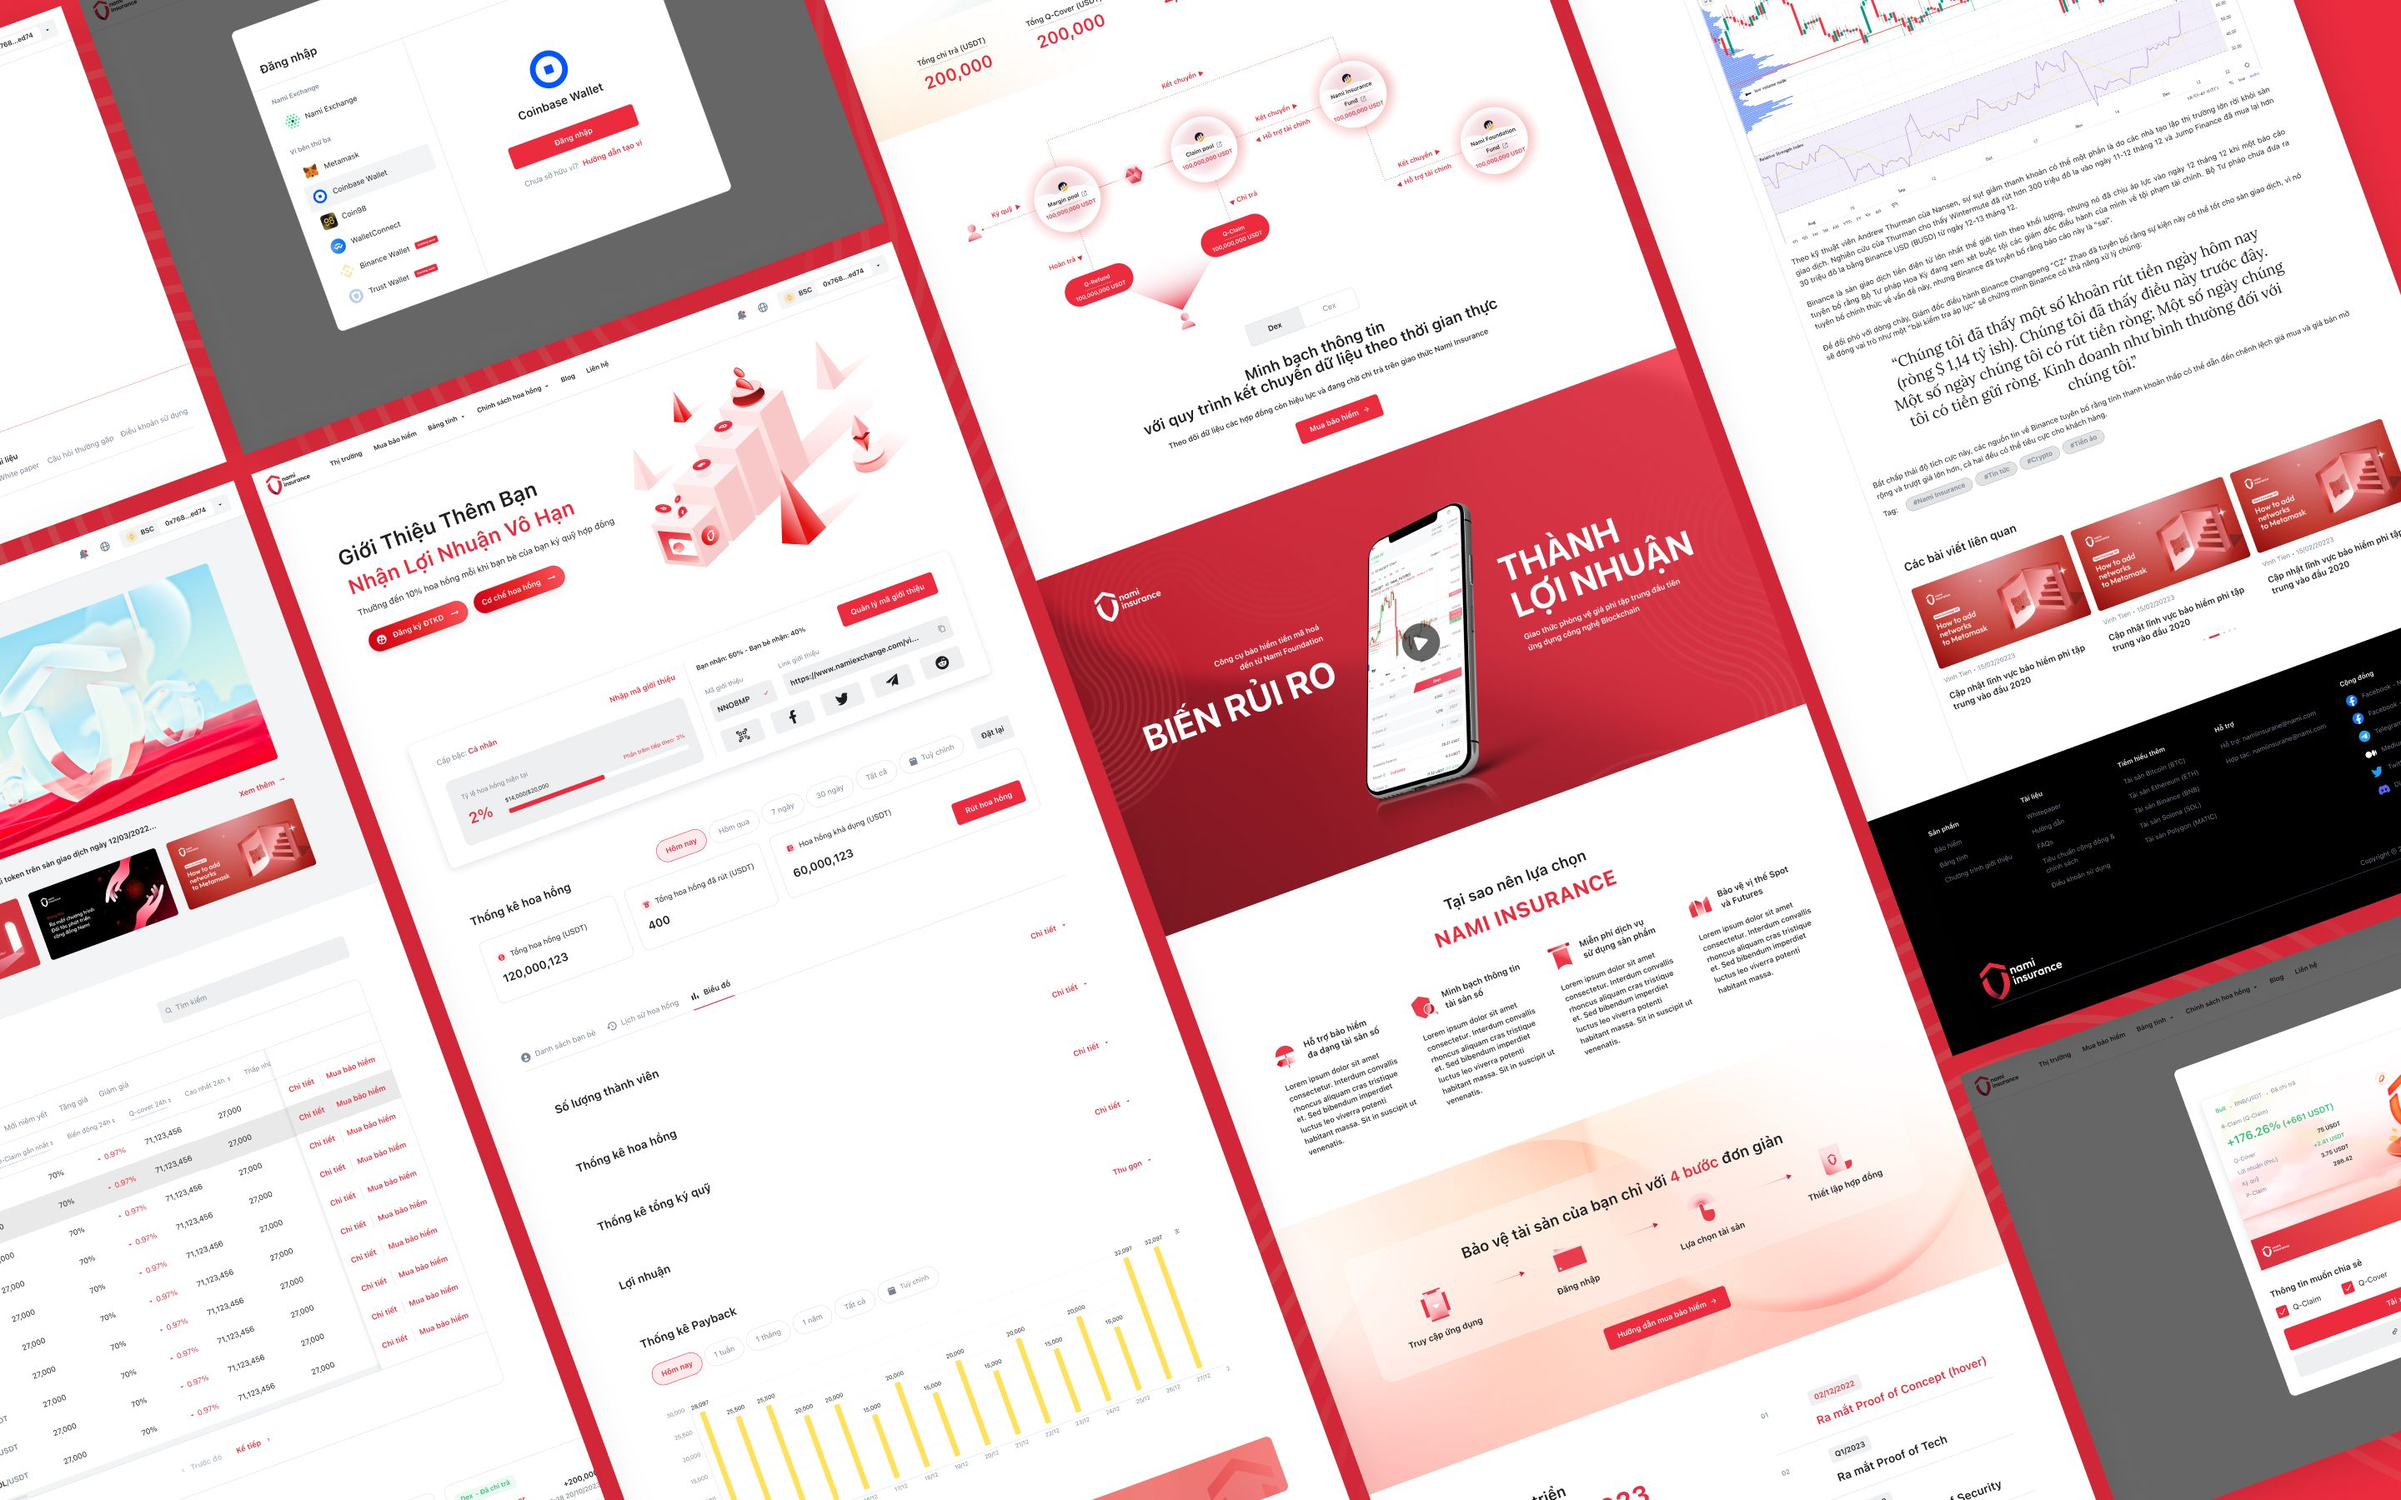
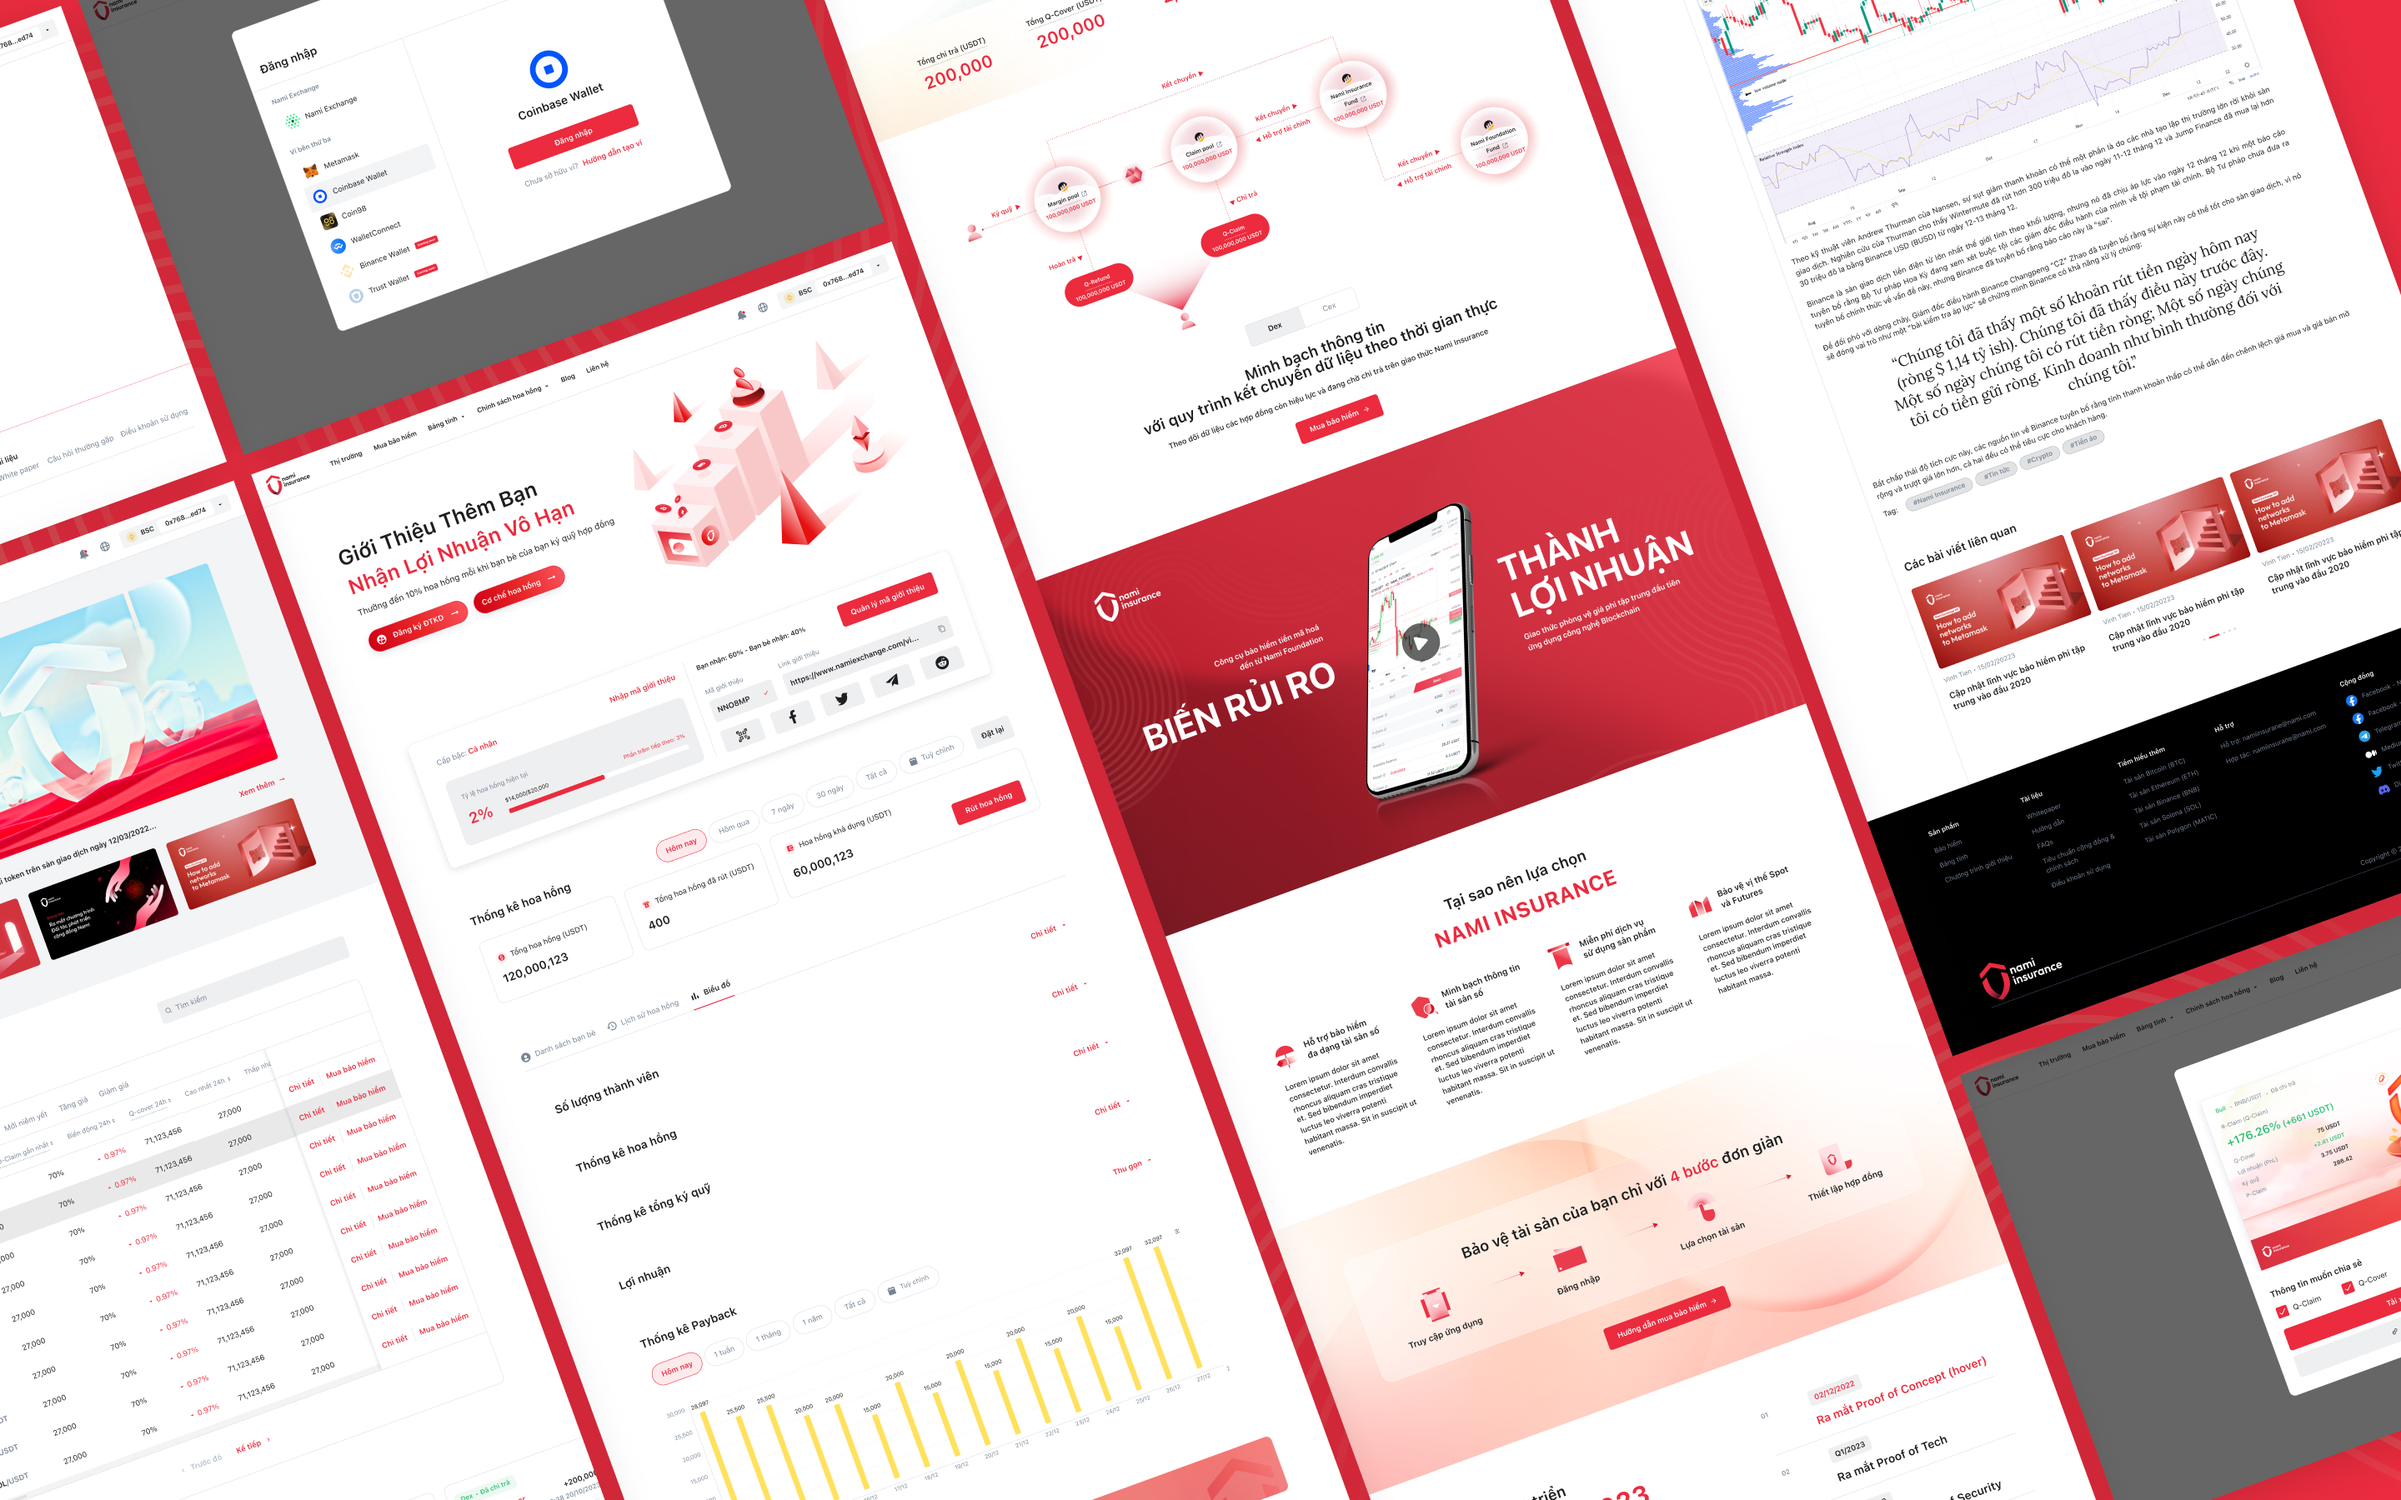
Update referral, email, and container images in NamiInsurancePage

diff --git a/components/NamiInsurancePage.tsx b/components/NamiInsurancePage.tsx
@@ -10,7 +10,7 @@ const ASSETS = {
   imgOnchain: "/nami-insurance-onchain.png",
   imgMuaBaoHiem: "/nami-insurance-contract.png",
   imgHoaHong: "/nami-insurance-referral.jpg",
-  imgEmail: "/nami-insurance-email.png",
+  imgEmail: "/nami-insurance-email.jpg",
   designSystem1: "/nami-insurance-ds1.jpg",
   designSystem2: "/nami-insurance-ds2.jpg",
   designSystem3: "/nami-insurance-ds3.jpg",
@@ -35,7 +35,7 @@ const ASSETS = {
   imgOnchainMobile: "/nami-insurance-onchain.png",
   imgMuaBaoHiemMobile: "/nami-insurance-contract.png",
   imgHoaHongMobile: "/nami-insurance-referral.jpg",
-  imgEmailMobile: "/nami-insurance-email.png",
+  imgEmailMobile: "/nami-insurance-email.jpg",
   designSystem1Mobile: "/nami-insurance-ds1.jpg",
   designSystem2Mobile: "/nami-insurance-ds2.jpg",
   designSystem3Mobile: "/nami-insurance-ds3.jpg",
